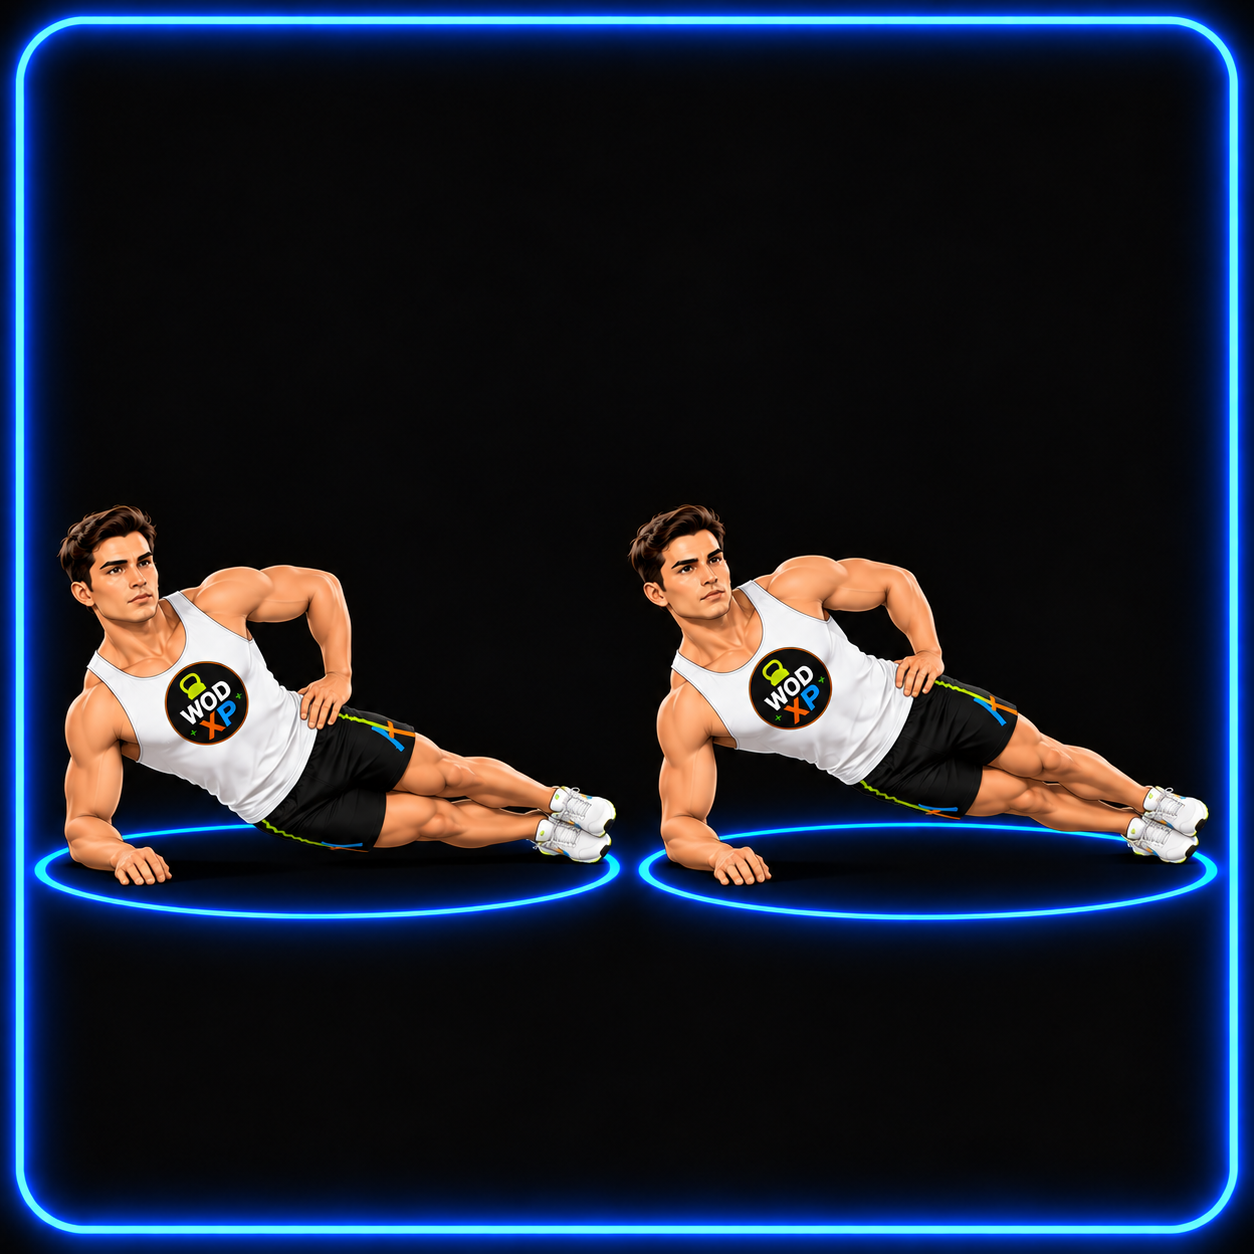
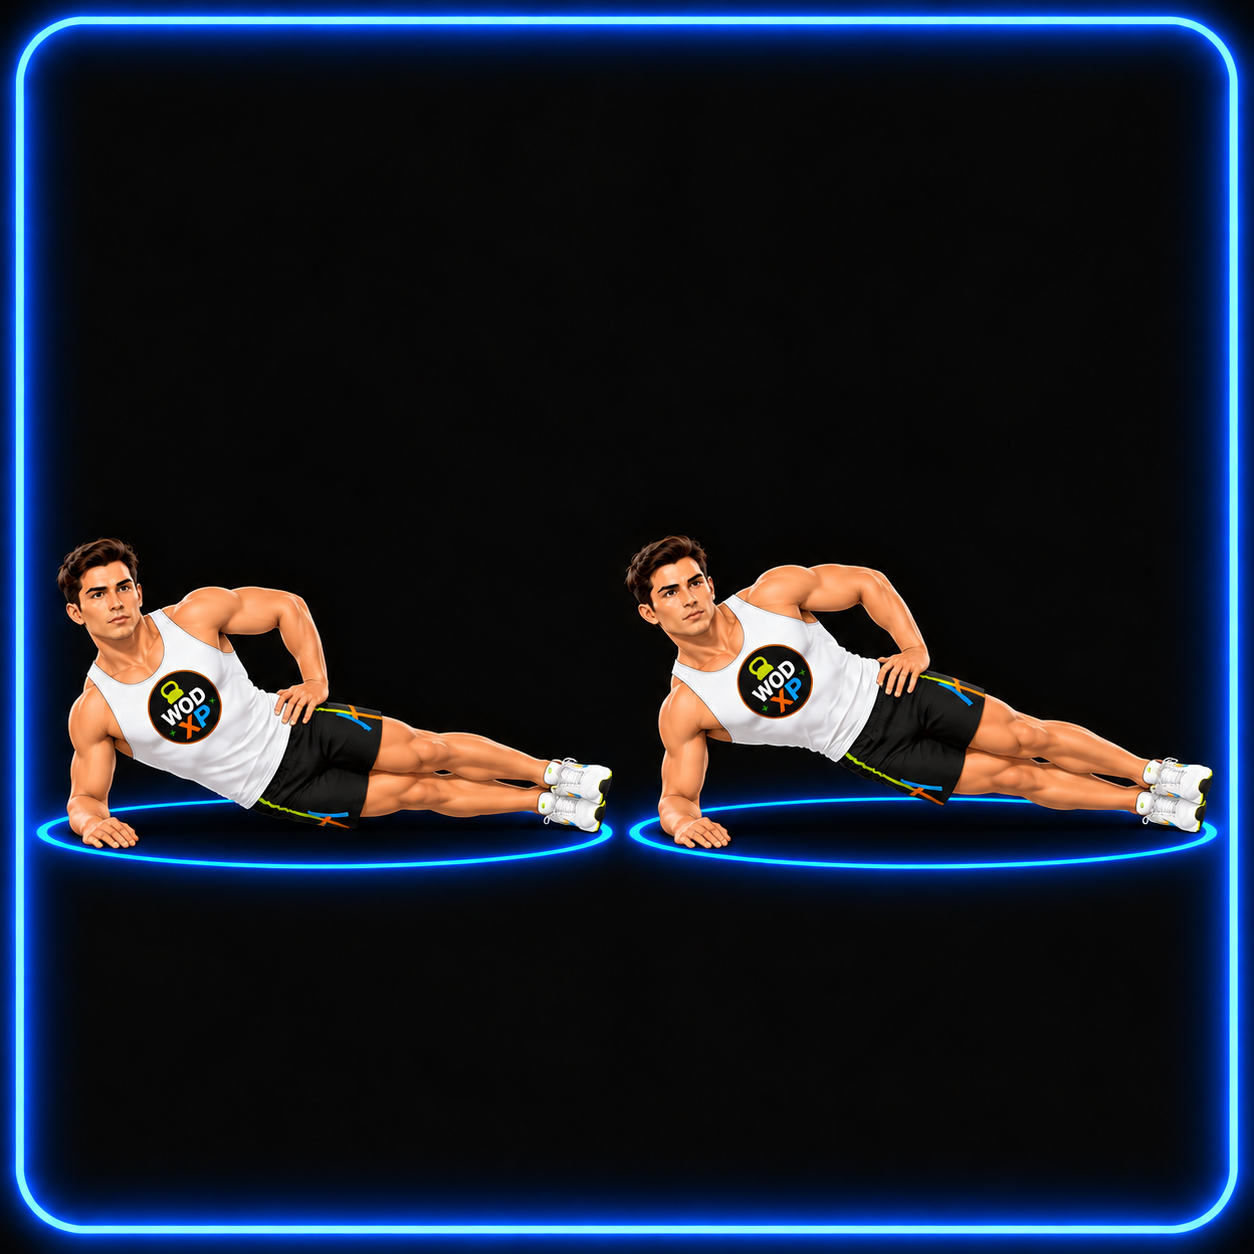
Batch 50: 3 redone + 7 new illustrations, 7 new lookup keys
Claude-Session: https://claude.ai/code/session_0158YNZ6nAb9Jkk59s2iRhBg

diff --git a/components/AppClient.tsx b/components/AppClient.tsx
@@ -409,6 +409,14 @@ const EXERCISE_ILLUSTRATION_IMAGES: Record<string, string> = {
   'Skull Crusher|dumbbell': '/exercise-images/dumbbell/skull_crusher.png',
   'Dumbbell Snatch|dumbbell': '/exercise-images/dumbbell/dumbbell_snatch.png',
   'Dumbbell Dead Bug Hold|dumbbell': '/exercise-images/dumbbell/dumbbell_dead_bug_hold.png',
+  // Batch 50 additions:
+  'KB Goblet Good Morning|kettlebell': '/exercise-images/kettlebell/kb_goblet_good_morning.png',
+  'KB Kneeling Press|kettlebell': '/exercise-images/kettlebell/kb_kneeling_press.png',
+  'KB Single-Arm Swing|kettlebell': '/exercise-images/kettlebell/kb_single_arm_swing.png',
+  'KB Plank Drag|kettlebell': '/exercise-images/kettlebell/kb_plank_drag.png',
+  'Knee-to-Wall Ankle Mobility|bodyweight': '/exercise-images/bodyweight/knee_to_wall_ankle_mobility.png',
+  'Scorpion Stretch|bodyweight': '/exercise-images/bodyweight/scorpion_stretch.png',
+  'Dumbbell Romanian Deadlift to Row|dumbbell': '/exercise-images/dumbbell/dumbbell_romanian_deadlift_to_row.png',
   'Thruster|dumbbell': '/exercise-images/dumbbell/thruster__dumbbell.png',
   'Triceps Kickback|dumbbell': '/exercise-images/dumbbell/triceps_kickback.png',
   'Bear Plank|bodyweight': '/exercise-images/bodyweight/bear_plank.png',
